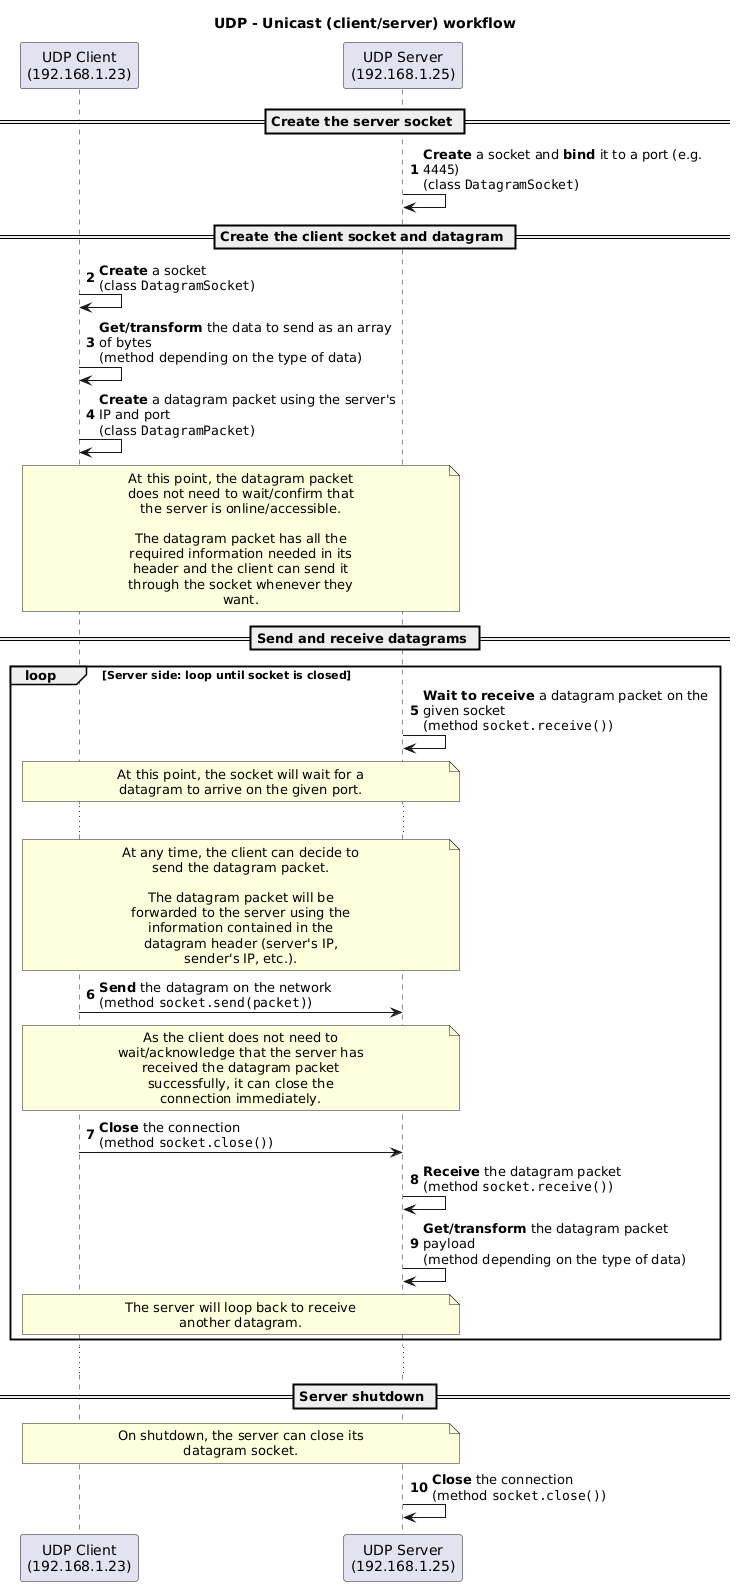
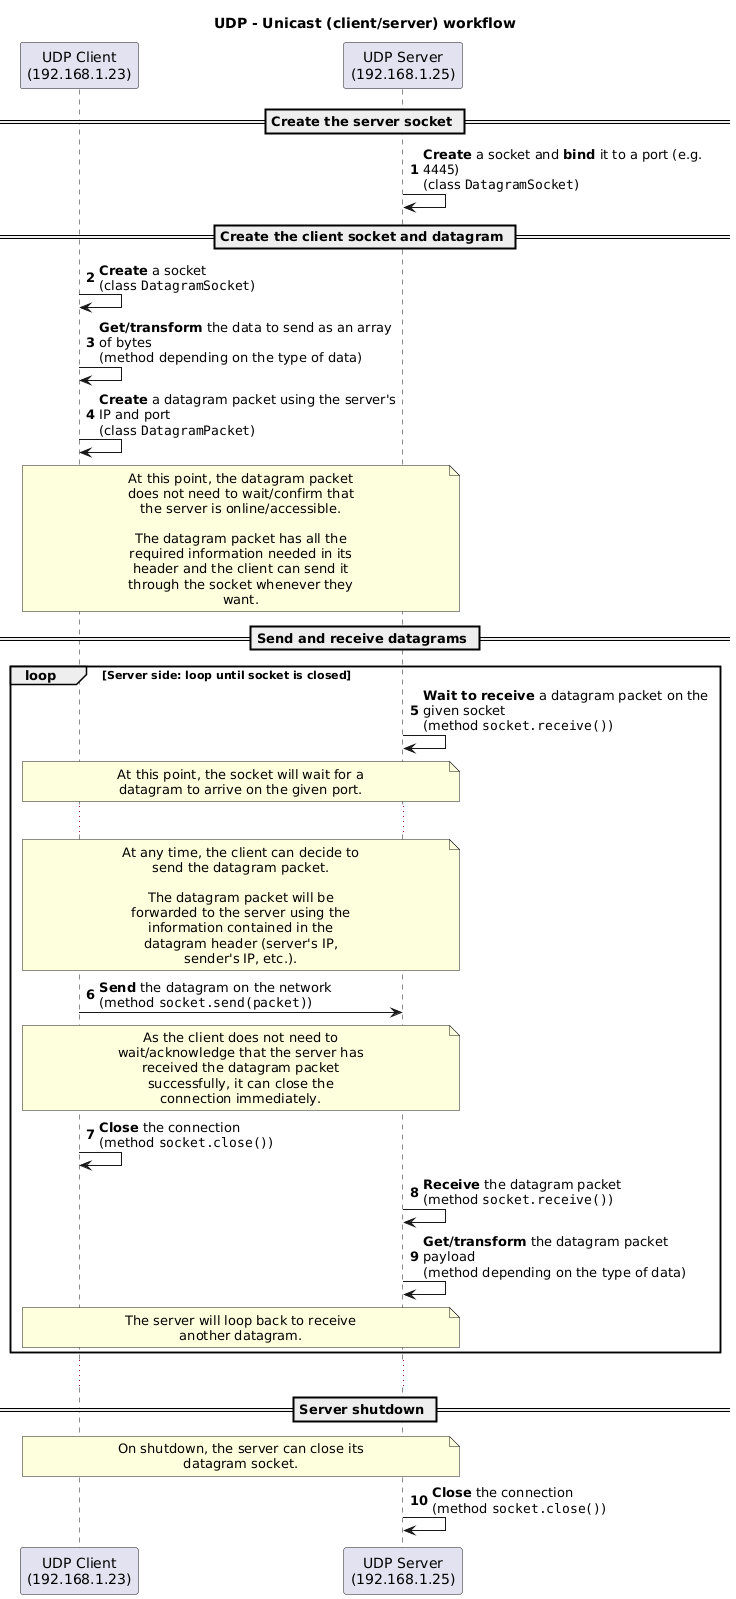
Fix diagrams

diff --git a/07.01-java-tcp-and-udp-programming-(1-of-2)/01-course-material/README.md b/07.01-java-tcp-and-udp-programming-(1-of-2)/01-course-material/README.md
@@ -57,11 +57,15 @@ This work is licensed under the [CC BY-SA 4.0][license] license.
 As you have seen in previous courses, applications communicate with each other
 using application protocols.
 
-In this course, you will learn how to program your own TCP and UDP clients and
-servers/emitters and receivers in Java.
+In this course, you will learn how to implement such communication by
+programming your own TCP and UDP clients and servers (or emitters and receivers)
+in Java.
 
 This will allow you to create your own network applications, such as a chat
 server, a file server, a web server, a real-time multiplayer game server, etc.
+
+In other words, now that you understand how application protocols work, you will
+learn how to put them into practice using TCP and UDP in Java.
 
 In a nutshell, at the end of this course, you will be able to:
 

diff --git a/07.01-java-tcp-and-udp-programming-(1-of-2)/01-course-material/PRESENTATION.md b/07.01-java-tcp-and-udp-programming-(1-of-2)/01-course-material/PRESENTATION.md
@@ -454,8 +454,8 @@ other resources and alternatives as well.
 
 <!-- _class: lead -->
 
-More details for this section in the . You can find other resources and
-alternatives as well.
+More details for this section in the [course material][course]. You can find
+other resources and alternatives as well.
 
 ### Read-Eval-Print Loop (REPL)
 
